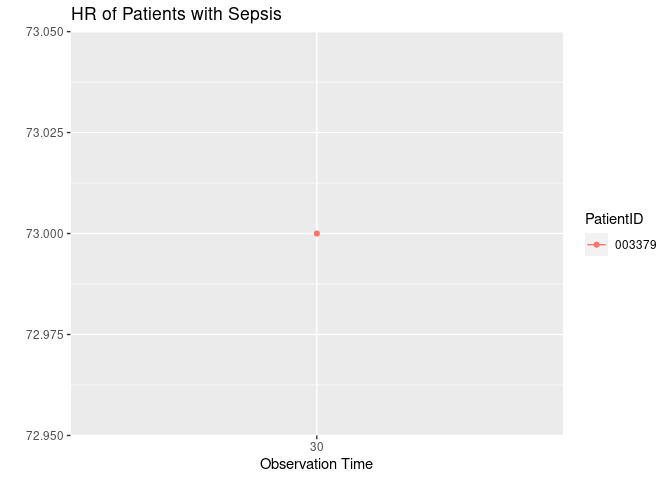
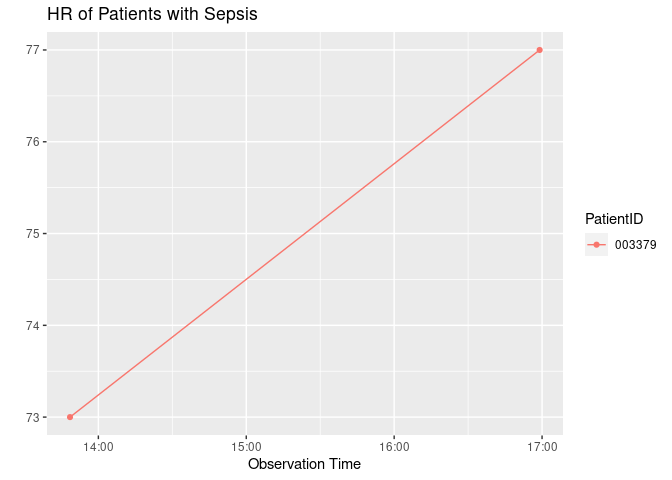
Updated report

diff --git a/README.md b/README.md
@@ -8,11 +8,11 @@ Yansong Wen
 
 \#TASK 4
 
-    [1] "2023-04-10 16:23:17 UTC"
+    [1] "2023-04-10 17:15:43 UTC"
 
-| PatientID |  HR | Temp | Resp |
-|:----------|----:|-----:|-----:|
-| 003379    |  73 |   NA |   34 |
+| PatientID |  HR |  Temp | Resp |
+|:----------|----:|------:|-----:|
+| 003379    |  77 | 36.89 |   26 |
 
 ![](README_files/figure-commonmark/unnamed-chunk-4-1.png)
 
@@ -22,56 +22,56 @@ Yansong Wen
 
 | PatientID | dHR | dTemp | dResp |
 |:----------|----:|------:|------:|
-| 000098    |   4 |    NA |    -2 |
-| 000135    |   2 |  0.15 |     0 |
+| 000098    |  -1 |    NA |     4 |
+| 000135    |  -5 |  0.00 |     2 |
 | 000150    |   2 |    NA |     0 |
 | 000536    |   1 |    NA |    -3 |
-| 000958    |  -2 |    NA |    -6 |
-| 001241    |   1 |  0.70 |     0 |
+| 000958    |  12 |    NA |     5 |
+| 001241    |  -2 | -4.90 |     0 |
 | 001553    |   0 |  0.00 |     0 |
 | 001850    |  NA |    NA |    NA |
-| 001903    |  -1 |  0.00 |    -1 |
+| 001903    |   0 |  0.10 |     1 |
 | 002116    |   2 |    NA |     5 |
 | 002171    |  -8 |    NA |     0 |
 | 002247    |  11 |    NA |    -1 |
-| 002321    |   9 |    NA |     0 |
-| 002480    | -15 |    NA |     3 |
-| 002819    |  -1 |    NA |    -5 |
-| 002945    |   3 |  0.10 |     1 |
-| 003379    |   2 |    NA |    -6 |
-| 004127    |   0 |    NA |     5 |
+| 002321    |  -6 |    NA |     3 |
+| 002480    |   7 |    NA |     1 |
+| 002819    |  -7 |    NA |     3 |
+| 002945    |   1 |  0.10 |     2 |
+| 003379    |   4 |    NA |    -8 |
+| 004127    |   1 |    NA |    -4 |
 | 004201    |   3 |    NA |    -2 |
 | 004402    |  NA |    NA |    NA |
 | 004768    |  NA |    NA |    NA |
-| 004772    |   2 |    NA |     1 |
-| 004902    |  10 |    NA |     1 |
-| 004927    |  -6 |    NA |    -3 |
-| 004978    |   3 |  0.15 |    -1 |
-| 005062    |  -3 |    NA |    -4 |
-| 005131    |   1 |  0.00 |     0 |
+| 004772    |   3 |    NA |    -2 |
+| 004902    |  -5 |    NA |     0 |
+| 004927    |   3 |    NA |     8 |
+| 004978    |  -2 |  0.00 |    -1 |
+| 005062    |   1 |    NA |     4 |
+| 005131    |  -1 | -0.05 |     3 |
 | 005135    |  NA |    NA |    NA |
-| 005854    |   6 |  0.10 |    -3 |
-| 005858    |  NA |    NA |    NA |
-| 005946    |   7 |    NA |    -1 |
+| 005854    |   1 |  0.10 |     0 |
+| 005858    |   3 |    NA |     3 |
+| 005946    |   2 |    NA |     7 |
 | 005980    |  -8 |    NA |     0 |
-| 006349    |  -3 | -0.10 |    -2 |
-| 006534    |  -3 |    NA |     6 |
-| 006827    |   0 |  0.20 |    -1 |
+| 006349    |   1 |  0.50 |    -2 |
+| 006534    | -18 |    NA |    -1 |
+| 006827    |   0 |  0.10 |     1 |
 | 006987    |   0 |  0.10 |    -2 |
 | 007029    |   1 |    NA |   -10 |
-| 007041    |   1 |    NA |   -13 |
+| 007041    |  -3 |    NA |    -7 |
 | 007541    |  -1 |    NA |     1 |
-| 007567    |  -4 |    NA |     1 |
+| 007567    |  -1 |    NA |    -4 |
 | 007586    |  -1 | -0.05 |     3 |
-| 007742    |   0 |  0.10 |    -3 |
-| 007753    |  -8 |    NA |    -2 |
+| 007742    |   4 |  0.00 |     2 |
+| 007753    |   0 |    NA |     2 |
 | 008527    |   3 |    NA |     1 |
-| 008638    |  NA |    NA |    NA |
-| 008639    |   0 |  0.10 |    -2 |
-| 008828    |  -2 | -0.70 |     6 |
+| 008638    |   6 |    NA |     1 |
+| 008639    |  -1 |  0.00 |     6 |
+| 008828    |  -2 |  0.10 |    -9 |
 | 009301    |   6 |  0.10 |    NA |
 | 009610    |  15 |    NA |     6 |
-| 009821    |  -3 |    NA |    -4 |
+| 009821    |   0 |    NA |     1 |
 
 Changes of heart rate, temperature, and respiratory rate for all
 patients in the lasted 2 observations
